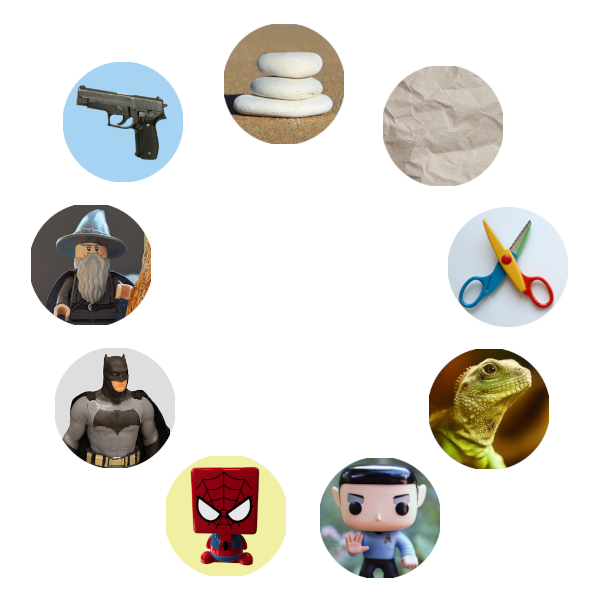
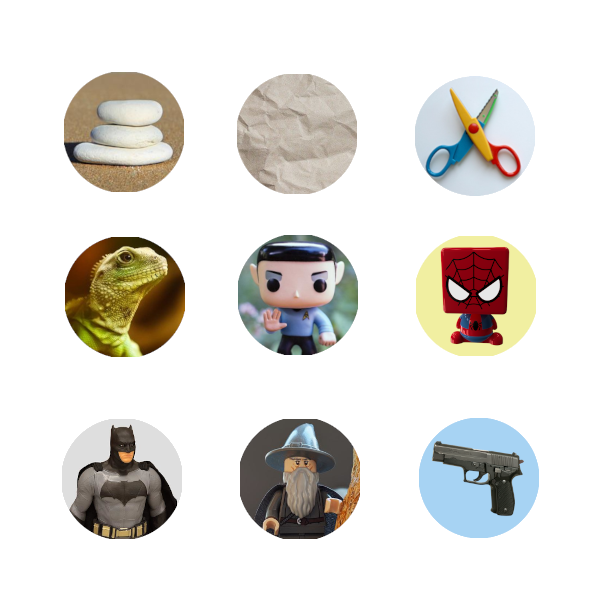
style: Variant menu buttons

diff --git a/assets/css/styles-main.css b/assets/css/styles-main.css
@@ -4,6 +4,10 @@
 :root {
     --var-variant-tile-margin: calc(2 * var(--std-margin-between));
     --var-variant-tile-size: 150px;
+
+    --var-variant-button-shadow-colour: #999;
+    --var-variant-button-shadow-size: 5px;
+    --var-variant-button-active-shadow-size: 2px;
 }
   
 .section__select-variant {
@@ -17,16 +21,24 @@
 
 .div__variant-tile-wrapper {
     margin: var(--var-variant-tile-margin);
-    border: calc(var(--std-margin-between) / 2) solid transparent;
-    padding: var(--std-margin-between);
-}
-
-.div__variant-tile-wrapper:hover {
-    margin: var(--var-variant-tile-margin);
     border: calc(var(--std-margin-between) / 2) solid var(--dark-blue);
     border-radius: calc(var(--var-variant-tile-size) * 0.2);
     padding: var(--std-margin-between);
+
+    cursor: pointer;
+    box-shadow: var(--var-variant-button-shadow-size) var(--var-variant-button-shadow-size) var(--var-variant-button-shadow-colour);
 }
+
+.div__variant-tile-wrapper:hover {
+    background-color: rgb(241, 241, 241);
+}
+
+/* pressed effect based on https://www.w3schools.com/howto/howto_css_animate_buttons.asp */
+.div__variant-tile-wrapper:active {
+    background-color: var(--yellow);
+    box-shadow: var(--var-variant-button-active-shadow-size) var(--var-variant-button-active-shadow-size) var(--var-variant-button-shadow-colour);
+    transform: translateY(calc(var(--var-variant-button-shadow-size) - var(--var-variant-button-active-shadow-size)));
+  }
 
 .img__variant-tile-img {
     height: var(--var-variant-tile-size);
